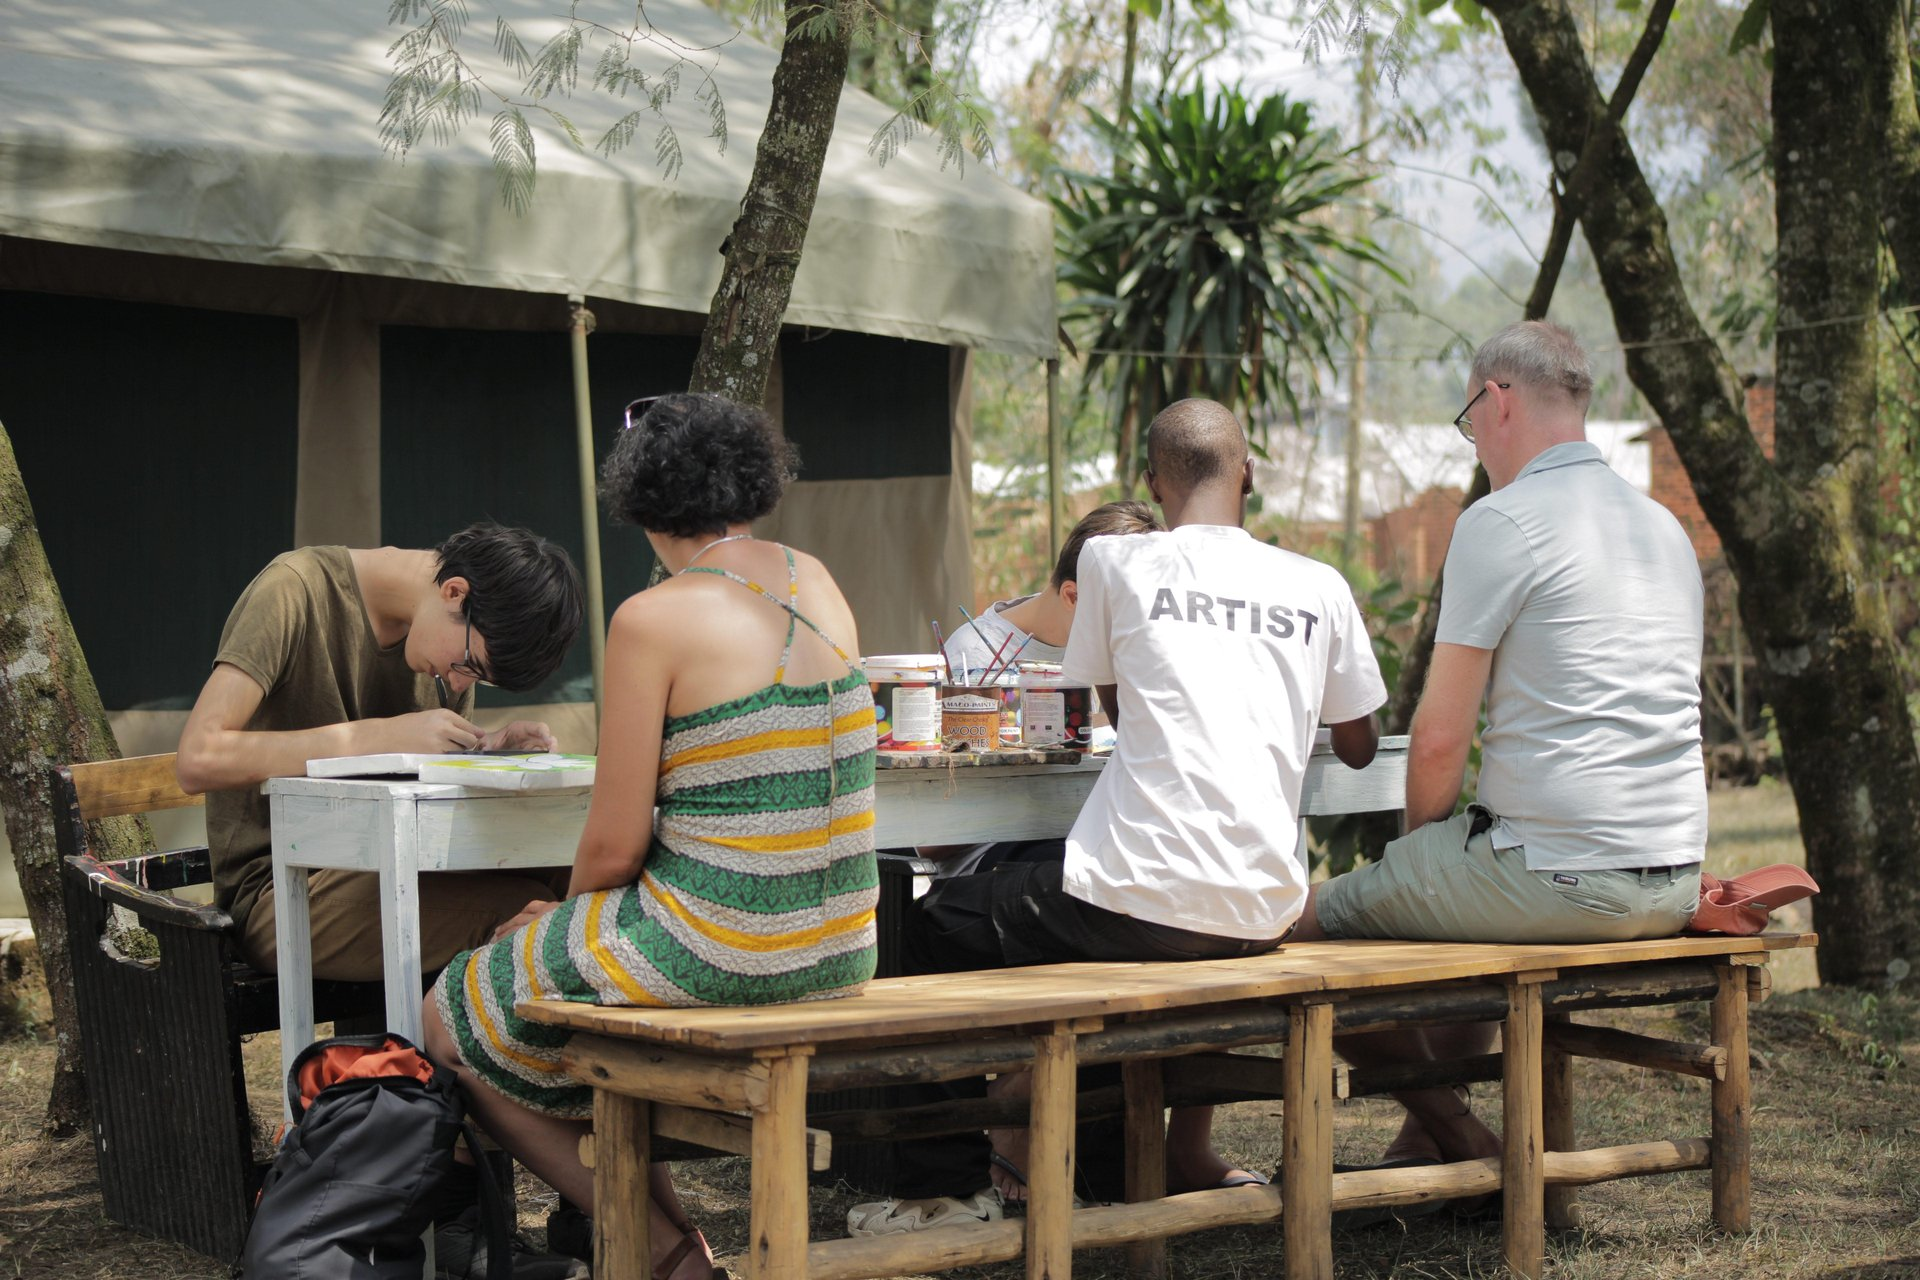
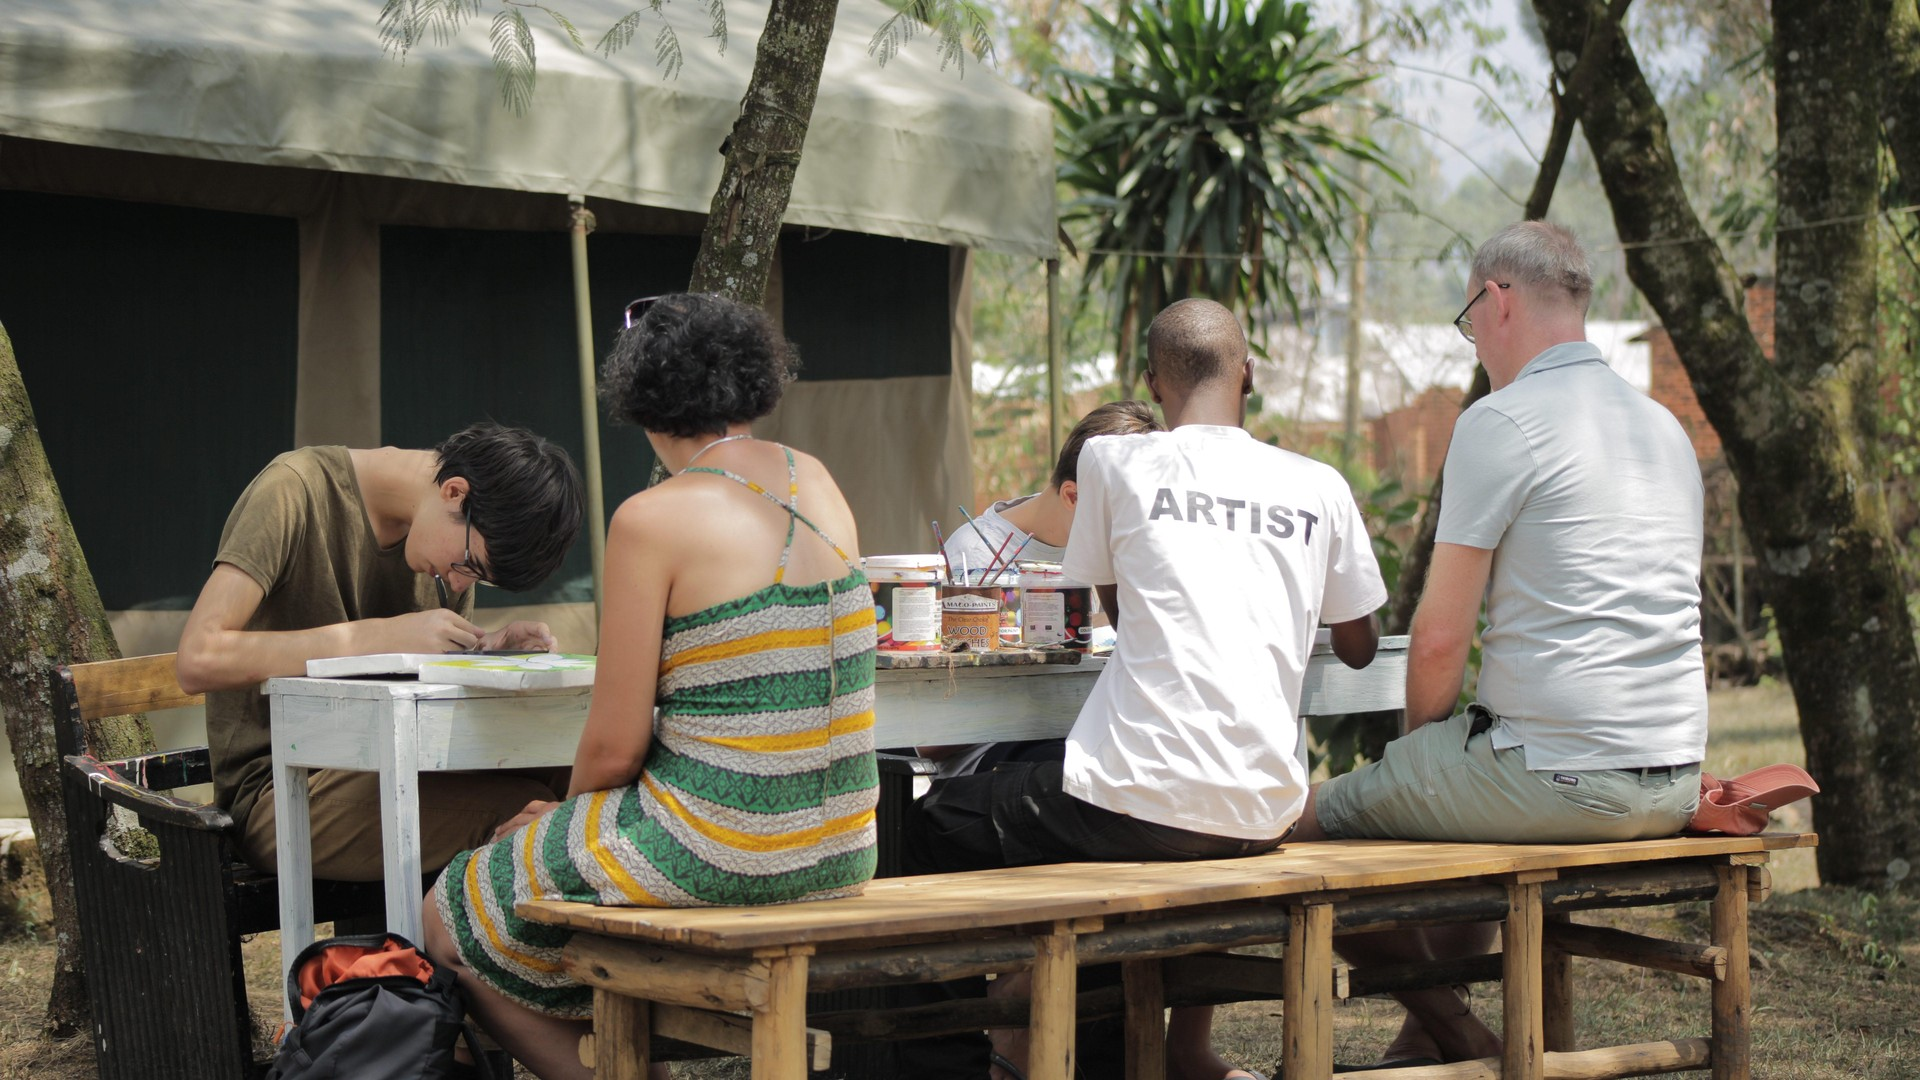
changes

diff --git a/pages/home.php b/pages/home.php
@@ -476,25 +476,37 @@
       }
       .hero-bg-poster {
         position: absolute;
-        inset: 0;
+        top: 0;
+        left: 0;
+        width: 100%;
+        height: 100%;
         background-size: cover;
-        background-position: center;
+        background-position: center center;
+        background-repeat: no-repeat;
         z-index: 0;
-        transform: scale(1.06);
-        animation: heroZoom 16s ease-out forwards;
+        opacity: 1;
+        visibility: visible;
+        transition: opacity 0.8s ease-in-out, visibility 0.8s ease-in-out;
+        will-change: opacity;
+      }
+      .hero-bg-poster.is-hidden {
+        opacity: 0;
+        visibility: hidden;
+        pointer-events: none;
       }
       .hero video {
         position: absolute;
         top: 50%;
         left: 50%;
+        min-width: 100%;
+        min-height: 100%;
         width: 100%;
         height: 100%;
         object-fit: cover;
-        transform: translate(-50%, -50%) scale(1.06);
+        transform: translate(-50%, -50%);
         z-index: 0;
         opacity: 0;
-        transition: opacity 0.6s ease;
-        animation: heroZoom 16s ease-out forwards;
+        transition: opacity 0.8s ease-in-out;
       }
       .hero video.is-playing {
         opacity: 1;
@@ -2407,16 +2419,24 @@
     <script>
     document.addEventListener("DOMContentLoaded", () => {
       const heroVideo = document.querySelector('.hero video');
-      if (heroVideo) {
-        const onVideoPlay = () => {
+      const heroPoster = document.querySelector('.hero-bg-poster');
+
+      if (heroVideo && heroPoster) {
+        const revealVideo = () => {
           heroVideo.classList.add('is-playing');
+          heroPoster.classList.add('is-hidden');
         };
-        if (heroVideo.readyState >= 3) {
-          onVideoPlay();
+
+        if (heroVideo.readyState >= 3 && !heroVideo.paused) {
+          revealVideo();
         } else {
-          heroVideo.addEventListener('playing', onVideoPlay, { once: true });
-          heroVideo.addEventListener('canplaythrough', onVideoPlay, { once: true });
-          heroVideo.addEventListener('timeupdate', onVideoPlay, { once: true });
+          heroVideo.addEventListener('playing', revealVideo, { once: true });
+          heroVideo.addEventListener('canplaythrough', revealVideo, { once: true });
+          heroVideo.addEventListener('timeupdate', () => {
+            if (heroVideo.currentTime > 0.05) {
+              revealVideo();
+            }
+          }, { once: true });
         }
       }
 
